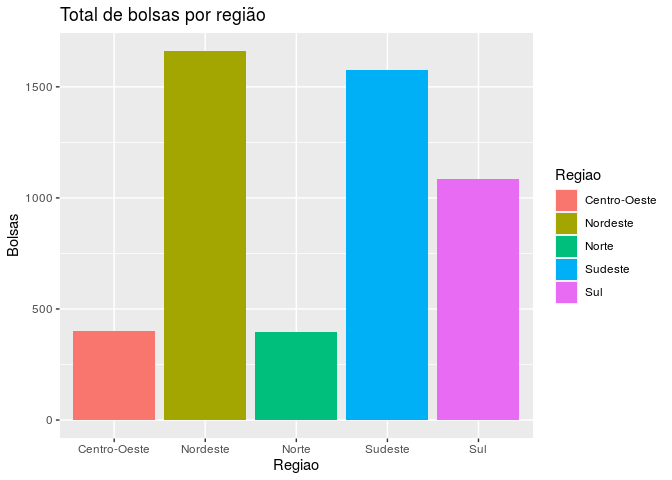
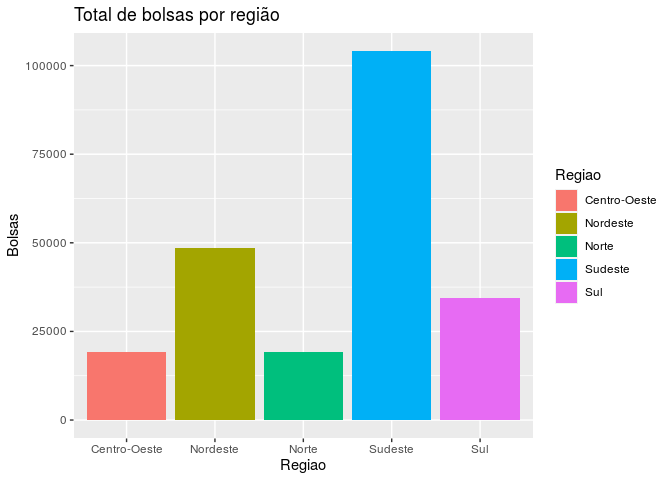
Desenvolve análise

diff --git a/trabalho_final.md b/trabalho_final.md
@@ -116,42 +116,49 @@ relativas à origem dos beneficiários das bolsas, podemos analisar a
 distribuição da concessão dessas ao redor do país, a partir de
 diferentes pontos.
 
-Primeiramente, é possível perceber os beneficiários originários de
-capitais é quase insignificante comparado aos demais municípios.
-
-    ## `summarise()` regrouping output by 'Municipio', 'UF' (override with `.groups` argument)
-
-    ## `summarise()` ungrouping output (override with `.groups` argument)
-
-![](trabalho_final_files/figure-gfm/unnamed-chunk-11-1.png)<!-- -->
-
-Quanto aos beneficiários por UF e Região, observa-se as seguintes
-distribuições:
+A distribuição dos beneficiários por Região apresenta o seguinte
+arranjo:
 
     ## `summarise()` ungrouping output (override with `.groups` argument)
 
 ![](trabalho_final_files/figure-gfm/unnamed-chunk-12-1.png)<!-- -->
 
+É possível perceber que a região Sudeste concentra o maior número de
+bolsas concedidas, com mais de 100.000 no total, o que é mais que o
+dobro da segunda colocada, o Nordeste, com apresentou pouco menos de
+50.000, e que, por sua vez, ultrapassa as duas últimas colocadas, Norte
+e Centro-Oeste (que ficam próximos de um empate pelo último lugar, com
+aproximadamente 20.000 cada) somadas. A região Sul ficou na posição
+mediana, com aproximadamente 35.000 bolsas.
+
+Tal cenário pode ser melhor entendido se analisamos também a
+distribuição entre os estados do país:
+
     ## `summarise()` regrouping output by 'UF' (override with `.groups` argument)
 
-![](trabalho_final_files/figure-gfm/unnamed-chunk-12-2.png)<!-- -->
+![](trabalho_final_files/figure-gfm/unnamed-chunk-13-1.png)<!-- -->
 
-É possível perceber que as regiões com maior volume de bolsas concedidas
-são a Nordeste e a Sudeste, respectivamente, ambas com mais de 1.500
-beneficiários, ao passo que a região Sul fica em terceiro lugar com mais
-de 1.000 e a Centro-Oeste e a Norte ficam por último e bem distantes das
-demais, com 400 e 395, respectivamente.
+Os dois primeiros colocados explicam a posição da região Sudeste, uma
+vez que correspondem a São Paulo (com muito destaque, totalizando quase
+60.000 bolsas, o que supera qualquer uma das demais regiões como um
+todo) e, em segundo lugar, Minas Gerais (cerca de 25.000, ou seja, mais
+que o Norte ou o Centro-Oeste do país, sozinho), além do Rio de Janeiro,
+que ocupa a 5a posição. Por sua vez, as três últimas UFs no ranking são
+Roraima, Amapá e Acre, pertencentes ao Norte, o que também justifica a
+baixa colocação dessa região.
 
-Quanto aos estados, Minas Gerais apresenta o maior número de bolsas, com
-aproximadamente 800, seguido de São Paulo, com aproximadamente 600, o
-que explica a colocação da região Sudeste. Por outro lado, O Distrito
-Federal (Centro-Oeste) fica em última posição, com apenas uma bolsa, ao
-passo que as próximas 5 UFs com menor número correspondem a 5 das 7 UFs
-que compõem a região Norte, o que também explica a posição dessa região.
+Diante do destaque de regiões mais populosas em relação ao volume de
+bolsas, consideramos relevante observar os valores também entre
+beneficiários originários de capitais comparado aos demais municípios,
+contudo, observa-se que prevalecem largamente os segundos:
 
-Porém, os valores absolutos das regiões e dos estados podem ser
-decorrentes das diferenças demográficas entre eles, de maneira que é
-mais pertinente a análise da distribuição relativa.
+    ## `summarise()` ungrouping output (override with `.groups` argument)
+
+![](trabalho_final_files/figure-gfm/unnamed-chunk-14-1.png)<!-- -->
+
+Contudo, considerando que os valores absolutos das regiões e dos estados
+podem ser decorrentes das diferenças demográficas entre eles, percebe-se
+mais pertinente a análise da distribuição relativa das bolsas.
 
 ### Cursos Predominantes
 
